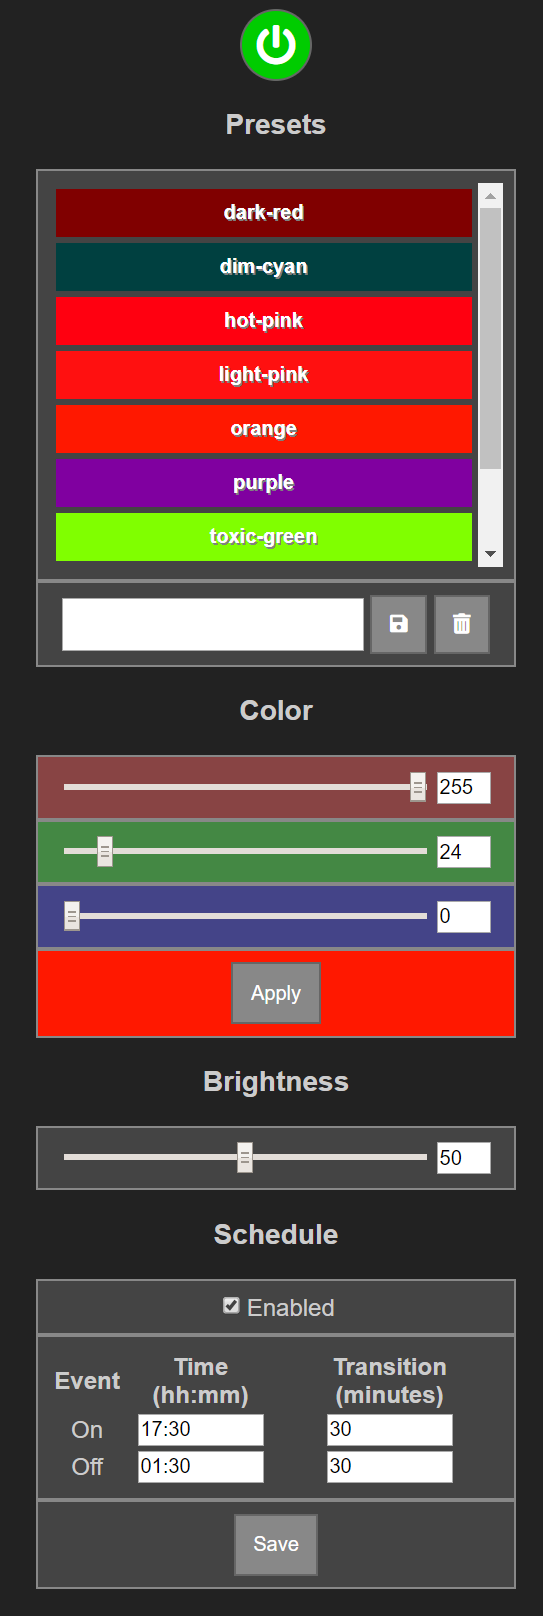
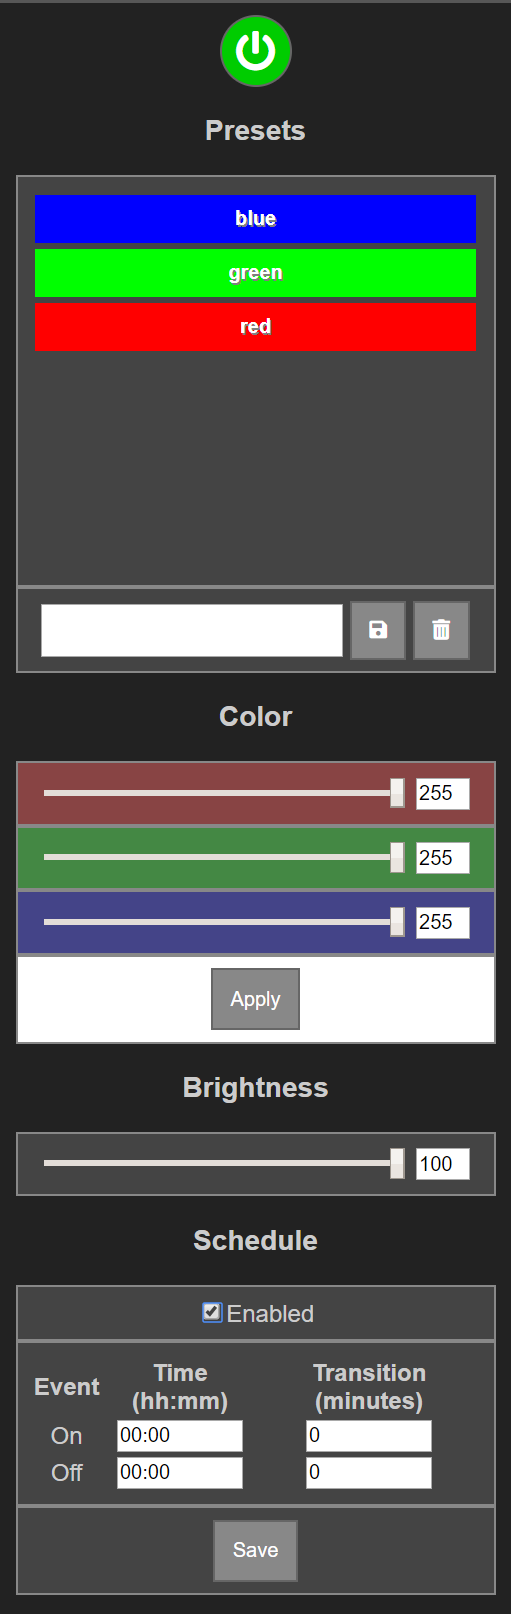
Updated README Changed screenshot Added presets and bind-port to default.json

diff --git a/rgb_app.py b/rgb_app.py
@@ -97,7 +97,7 @@ if __name__ == "__main__":
     try:
         start_scheduler()
         settings = load_settings()
-        app.run(host=settings["bind-addr"], port=5000)
+        app.run(host=settings["bind-addr"], port=settings["bind-port"])
     finally:
         print("Waiting for scheduler to quit...")
         stop_scheduler()

diff --git a/README.md b/README.md
@@ -1,27 +1,35 @@
 # RGB Strip controller for Raspberry Pi
 
-This app allows you to control an RGB strip, connected to your Raspberry Pi through GPIO, through a web browser. On Chrome for Android, specifically, you can create a shortcut to the controller page on your home screen, and use it like any other RGB controller app.
+This app allows you to control an RGB strip, connected to your Raspberry Pi through GPIO, from a web browser. On Chrome for Android, specifically, you can create a shortcut to the controller page on your home screen, and use it like any other RGB controller app.
+
+This app was inspired by [this article](https://www.instructables.com/id/Easiest-RGB-LED-Strip-With-Raspberry-Pi/) on Instructables.
 
 ## How does it work?
 
-This is a `Flask` application that uses the `pigpio` library to set the GPIO signals that control the LED strip. An RGB amplifier is used to convert the 3.3V GPIO signals to 12V as required by a 5050 RGB strip.
+This is a `Flask` application, that uses the `pigpio` library, to set GPIO signals to control a connected RGB LED strip. An RGB amplifier is used to convert the 3.3V GPIO signals to 12V as required by a 5050 RGB strip.
 
-Although this app has only been tested with a 12V strip, with an appropriate amplifier, this may even work with 5V strips.
+Although this app has only been tested with a 12V strip, with an appropriate amplifier or circuit, this may even work with 5V strips.
 
 ## Setting it up
 
-Here, we assume that you already have Raspbian installed on a Raspberry Pi and you have a working network connection, ideally with a static IP address, on the Pi. If you intend to run only this app on your Raspberry Pi, the Lite image on a Raspberry Pi Zero, should suffice.
+Here, we assume that you already have Raspbian installed on a Raspberry Pi and you have a working network connection on the Pi, ideally, with a static IP address. If you intend to run only this app on your Raspberry Pi, the Lite image on a Raspberry Pi Zero, should suffice.
 
-The following instructions assume that the red, green and blue channels are being controlled by GPIO23, GPIO24 and GPIO25, respectively. Please make adjustments as appropriate for your environment.
+The following instructions assume that the red, green and blue channels are being controlled by GPIO23, GPIO24 and GPIO25, respectively. Please make adjustments, as appropriate for your environment.
+
+### Hardware connections
+
+The pin layout shown here is for a 1st generation RPi. Please check the layout for your version of RPi before connecting.
 
 ![alt text](./connections.png "Connections")
 
+### Software
 Install prerequisites
 ```
-sudo apt-get install pigpiod python3 python3-pigpio python3-flask git
+sudo apt-get install pigpiod pigpio-tools python3 python3-pigpio python3-flask git
 ```
 Start the pigpiod daemon
 ```
+sudo systemctl daemon-reload
 sudo service pigpiod start
 ```
 Make sure pigpio works (use the correct GPIO ids)
@@ -34,34 +42,41 @@ Turn the LEDs off with:
 ```
 pigs pwm 23 255 pwm 24 255 pwm 25 255
 ```
-Enable the pigpiod daemon to get it to start automatically on boot.
+Set the pigpiod daemon to start automatically on boot.
 ```
 sudo update-rc.d pigpiod enable
 ```
+Determine the LAN IP address of your Raspberry Pi and note it down. For simplicity, we will refer to this IP address as `<Pi_IP_Address>`, where required.
+```
+hostname -I
+```
 Clone this repository
 ```
-git clone --recurse-submodules <TODO>
+git clone --recurse-submodules https://github.com/singhaxn/rgb-app.git
 ```
-Determine the LAN IP address of your Raspberry Pi:
+Navigate into your app folder
 ```
-ifconfig
+cd rgb-app
 ```
-See the App Configuration section below and make any changes that may be required for your environment.
+See the __App Configuration__ section below and make any changes that may be required for your environment.
 
-Edit `rgb-app.service` and specify the correct absolute path to your repository, under `WorkingDirectory` and `ExecStart`.
+Edit `rgb-app.service` and replace `/home/pi/src/rgb-app` with the correct absolute path to your copy of this repository, under `WorkingDirectory` and `ExecStart`.
 
-Copy the service file to `/etc/systemd/system`
+Copy the service file into `/etc/systemd/system`
 ```
 sudo cp rgb-app.service /etc/systemd/system/
 ```
 Start the service
 ```
+sudo systemctl daemon-reload
 sudo service rgb-app start
 ```
 
-In a web browser, on any device on your local network (same network as the Pi), open the page `http://<Pi_IP_Address>:5000/`. Replace `<Pi_IP_Address>` with the actual IP address of your Pi.
+In a web browser, on any device on your local network (same network as the Pi), open the page `http://<Pi_IP_Address>:5000/`. Press the power button. The LED strip should turn on white and you should see something like this:
 
 ![alt text](rgb-app-ui.png "UI")
+
+If not, see the troubleshooting section below.
 
 To get the RGB app to start up automatically at boot, add the following line to your `/etc/rc.local`, before the `exit 0` line.
 ```
@@ -70,7 +85,7 @@ service rgb-app start
 
 ## App Configuration
 
-The default app configuration is stored in `settings/default.json`. The first time you run the app, these settings are copied over to the live configuration file, `settings/rgb.json`. If you ever want to revert back to the default settings, simply delete `settings/rgb.json`. This section describes modifications to `settings/rgb.json`. However, the same description applies to `settings/default.json` _when `settings/rgb.json` does not exist_.
+The default app configuration is stored in `settings/default.json`, inside your clone of this repository. The first time you run the app, these settings are copied over to the live configuration file, `settings/rgb.json`. If you ever want to revert back to the default settings, simply delete `settings/rgb.json`. This section describes modifications to `settings/rgb.json`. However, the same description applies to `settings/default.json` when `settings/rgb.json` __does not exist__.
 
 If you do need to edit the live configuration file, remember to stop the `rgb-app` service first:
 ```
@@ -82,19 +97,30 @@ sudo service rgb-app start
 ```
 
 ### Common Modifications
-1. Specify the correct IP address of your Pi under `bind-address`. Ideally, this should be a static IP address.
-2. If you're using different pins than the default GPIO23, GPIO24 and GPIO25 for the red, green and blue channels, respectively, specify the correct GPIO IDs under `pins`. The sequence is `[R, G, B]`. Please note that these are GPIO ids and not physical pin numbers.
+1. Specify the correct IP address of your Pi under `bind-addr`. Ideally, this should be a static IP address.
+2. If you want to use a different port, specify it under `bind-port`. For simplicity, the default port number `5000` is used in these instructions.
+3. If you're using different pins than the default GPIO23, GPIO24 and GPIO25 for the red, green and blue channels, respectively, specify the correct GPIO IDs under `pins`. The sequence is `[R, G, B]`. Please note that these are GPIO ids and not physical pin numbers.
 
 ## Troubleshooting
 1. ### `pigs` does not work
-In my case, I discovered that the pigpiod server was listening on the default ipv6 address instead of ipv4. I got it to work by modifying `ExecStart` line the pigpiod service definition in `/lib/systemd/system/pigpiod.service` to
+In my case, I discovered that the pigpiod server was listening on the default ipv6 address instead of ipv4. I got it to work by modifying `ExecStart` line in the pigpiod service definition in `/lib/systemd/system/pigpiod.service` to
 ```
 ExecStart=/usr/bin/pigpiod -l -n 127.0.0.1
 ```
+Optionally, depending on your use case, you may want to change the sampling rate to reduce processor usage:
+```
+ExecStart=/usr/bin/pigpiod -l -n 127.0.0.1 -s 10
+```
 Restart the pigpiod service and try to turn the strip on again.
 
-2. ### `http://<Pi_IP_Address>:5000/` returns an ERR_CONNECTION_REFUSED error
-Make sure you have specified the correct bind address as described in the App Configuration section above.
+2. ### `http://<Pi_IP_Address>:5000/` returns an `ERR_CONNECTION_REFUSED` error
+Make sure, the correct bind address is specified in the configuration file, as described in the __App Configuration__ section above.
 
 3. ### `pigs` works but you can't control your LED strip from the web interface
-Make sure you have specified the correct GPIO pin numbers as described in the App Configuration section above.
+ - Make sure, the correct GPIO pin IDs are specified in the configuration file, as described in the __App Configuration__ section above.
+ - Check whether __Schedule__ is enabled in the web interface. If so, then the LED strip will only turn on when specified in the schedule. Disable __Schedule__ if you want to control the lights manually.
+ - Make sure __Brightness__ is not set too low on the web interface.
+ - Make sure __Color__ is not set to `[0, 0, 0]` on the web interface.
+
+4. ### LED Colors are wrong
+Do not expect the color reproduction of your RGB LED strips to be accurate with respect to the colors you see on your screen. Each LED strip is likely to have a different calibration. This is why only red, green, blue and white presets are provided by default. Still, make sure, the correct GPIO pin IDs are specified in the configuration file, as described in the __App Configuration__ section above.
